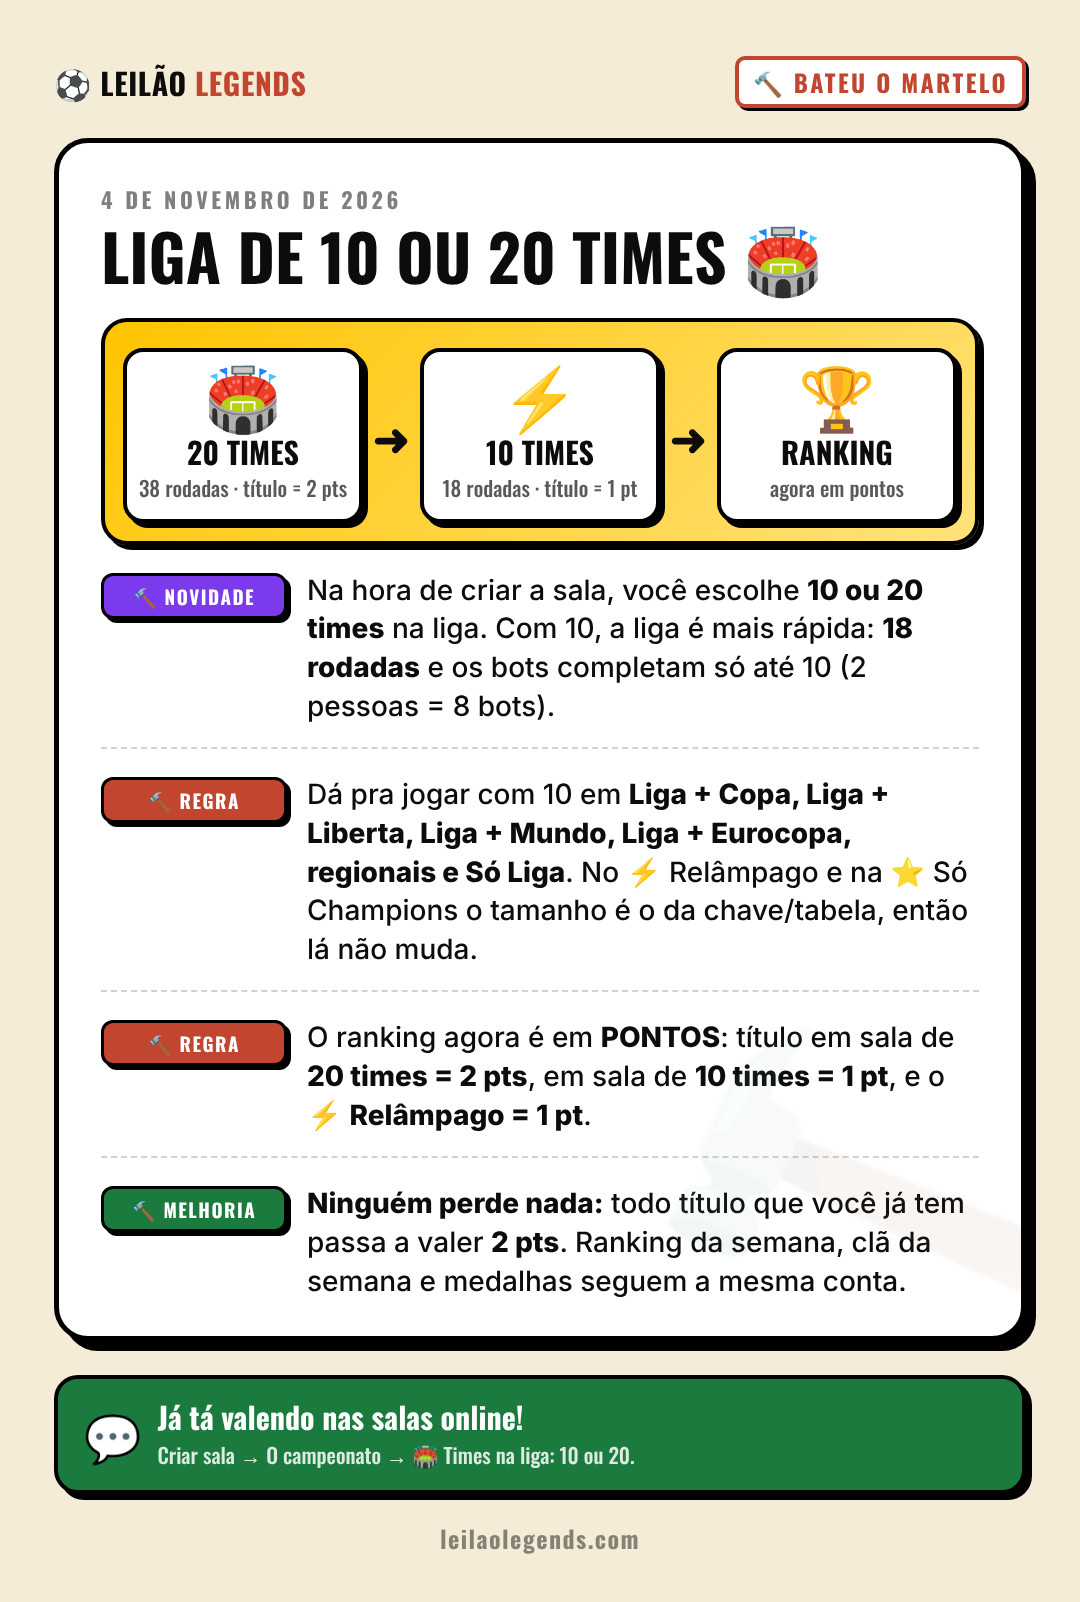
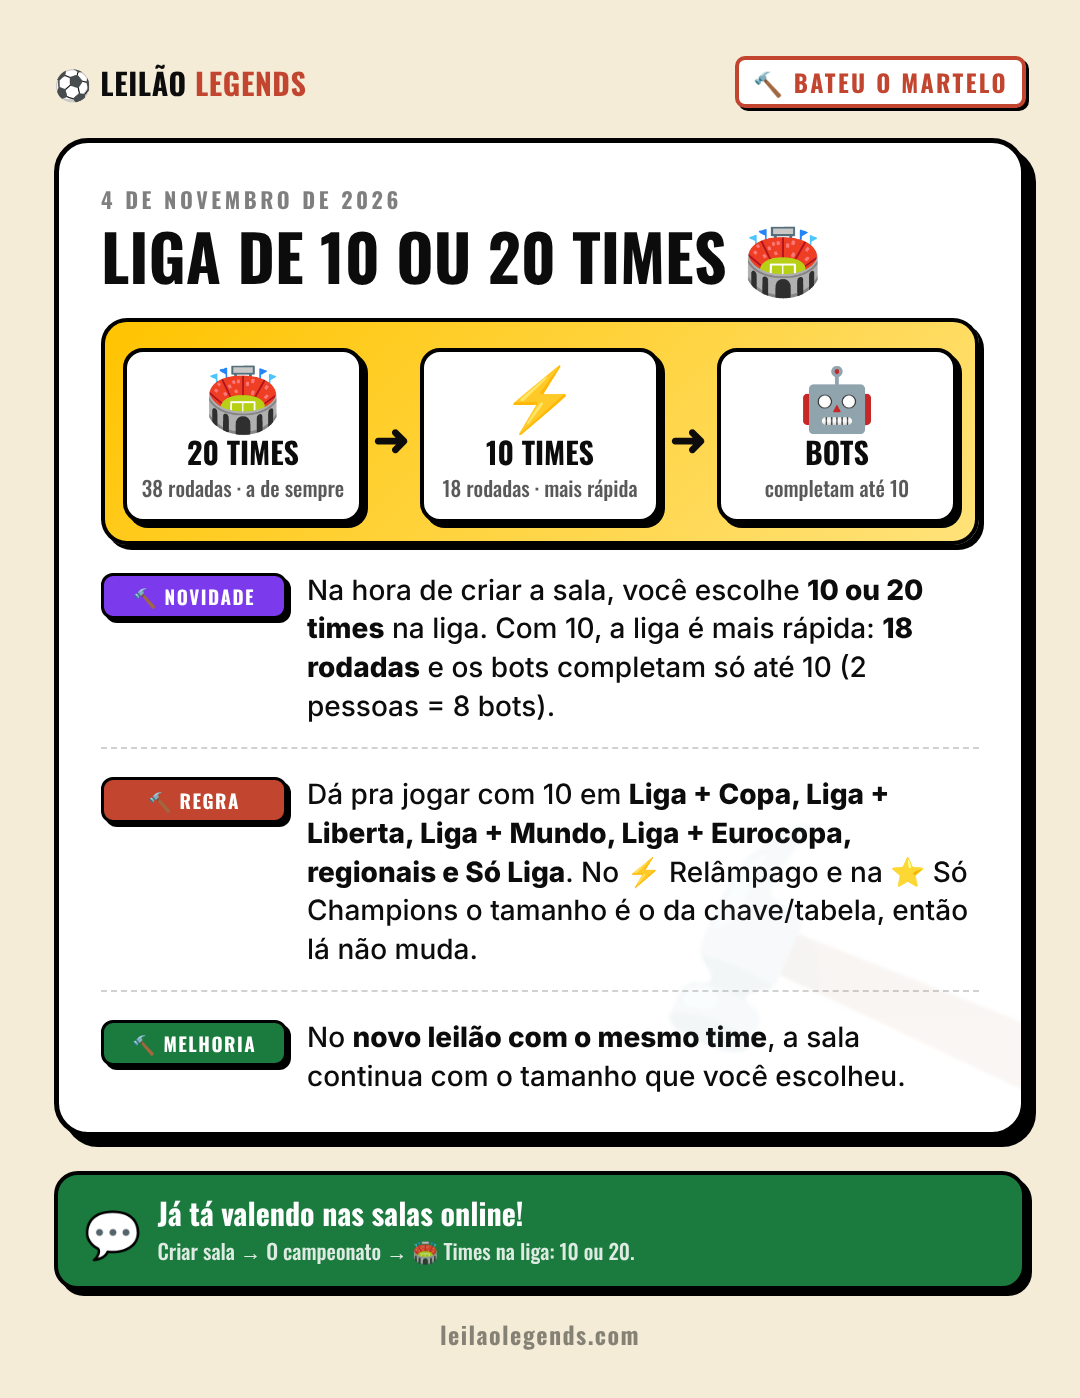
Liga de 10 times sem mudar o ranking: desfaz os pontos (fica por títulos como sempre), tira 'ponto' dos textos e refaz o aviso
Claude-Session: https://claude.ai/code/session_018Ap1zPCMVL9XeZJN3u93ZA

diff --git a/src/escalacao/lobby.tsx b/src/escalacao/lobby.tsx
@@ -4118,8 +4118,8 @@ export function EscLobby() {
                           ? tr('🔒 10 times não vale aqui: o ⚡ Relâmpago não tem liga — o tamanho é o da chave (16 ou 32).', '🔒 10 teams doesn\'t apply here: ⚡ Lightning has no league — the size is the draw (16 or 32).')
                           : tr('🔒 10 times não vale aqui: a ⭐ Só Champions não tem liga — é a tabela de 36.', '🔒 10 teams doesn\'t apply here: ⭐ Champions only has no league — it is the table of 36.'))
                         : ligaTamanho === 10
-                          ? tr('⚡ Liga de 10 = mais rápida (18 rodadas). Cabem até 10 times; os bots completam. Título vale 1 ponto no ranking.', '⚡ 10-team league = quicker (18 rounds). Up to 10 teams; bots fill the rest. A title is worth 1 ranking point.')
-                          : tr('🏟 Liga de 20 = a de sempre (38 rodadas). Título vale 2 pontos no ranking.', '🏟 20-team league = the usual one (38 rounds). A title is worth 2 ranking points.')}
+                          ? tr('⚡ Liga de 10 = mais rápida (18 rodadas). Cabem até 10 times; os bots completam.', '⚡ 10-team league = quicker (18 rounds). Up to 10 teams; bots fill the rest.')
+                          : tr('🏟 Liga de 20 = a de sempre (38 rodadas).', '🏟 20-team league = the usual one (38 rounds).')}
                     </p>
                   </SegField>
                 )}

diff --git a/docs/pendencias.md b/docs/pendencias.md
@@ -12101,3 +12101,6 @@ comércio, rotina dos patrocinadores andando a cada quadro). Agora o **Leve deix
 andando); torcida, dia de jogo e o jogo continuam. E entrou o **🩺 diagnóstico** embaixo dos botões de qualidade: nome da placa de vídeo +
 quadros por segundo (verde ≥25 · amarelo 15–24 · vermelho <15) e, se o navegador estiver SEM placa de vídeo (aceleração de hardware
 desligada), um aviso vermelho com o caminho no Chrome. Pedir print dessa linha pro Diego pra saber o que o PC dele é.
+
+### 🏟 04/11 — Liga de 10 ou 20 times nas salas
+Feito (escolha na criação; 10 = 18 rodadas, bots até 10). 🚫 **Ranking por PONTOS foi DESFEITO a pedido dele** (*"não faça nada de pts ainda… deixe como estava com títulos normal"*): título de sala de 10 conta como título normal por enquanto. A ideia (20 = 2 pts · 10/Relâmpago = 1 pt, + pódio/conquistas) fica guardada no commit revertido 606a0e0 pra quando ele quiser.
